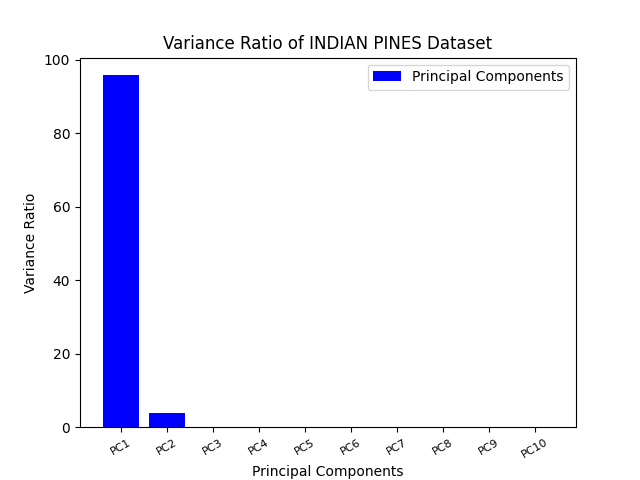
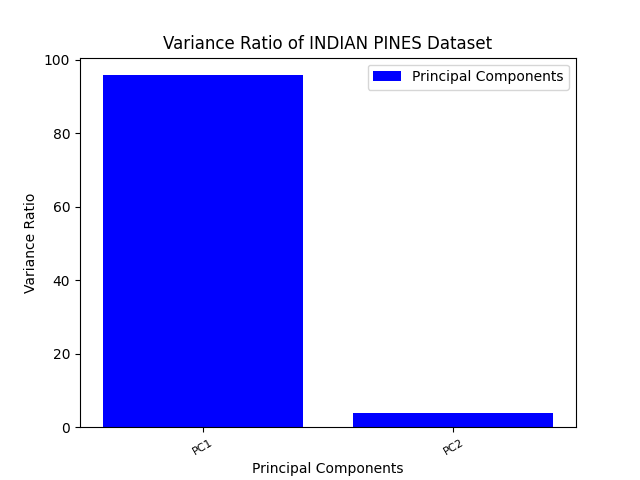
Checkpoint

diff --git a/hw3/2a.py b/hw3/2a.py
@@ -1,17 +1,19 @@
 #!/usr/bin/env python3
 
-import matplotlib.pyplot as plt
 import numpy as np
+import scipy.io
+import pandas as pd
 
-from sklearn import datasets
 from matplotlib import pyplot
-
+import matplotlib.pyplot as plt
 
 from sklearn.datasets import load_iris
-
+from sklearn import datasets
 from sklearn.model_selection import train_test_split
 from sklearn.model_selection import cross_val_score
 from sklearn.model_selection import learning_curve
+from sklearn.decomposition import PCA
+from sklearn.discriminant_analysis import LinearDiscriminantAnalysis
 from sklearn.model_selection import StratifiedKFold
 from sklearn.linear_model import LogisticRegression
 from sklearn.tree import DecisionTreeClassifier
@@ -25,7 +27,7 @@ from sklearn.ensemble import RandomForestClassifier
 from sklearn.ensemble import AdaBoostClassifier
 from sklearn.preprocessing import MinMaxScaler
 from sklearn.pipeline import Pipeline
-
+from sklearn.metrics import plot_confusion_matrix
 
 def plot_learning_curve(classifier, X, y, steps=10, train_sizes=np.linspace(0.1, 1.0, 10), label="", color="r", axes=None):
     estimator = Pipeline([("scaler", MinMaxScaler()), ("classifier", classifier)])
@@ -61,6 +63,18 @@ def plot_learning_curve(classifier, X, y, steps=10, train_sizes=np.linspace(0.1,
     print("")
     return plt
 
+def plot_per_class_accuracy(classifier, X, y, label, feature_selection = None):
+    X_train, X_test, y_train, y_test = train_test_split(X, y, test_size=0.9, random_state=101)
+    pipeline = Pipeline([("scalar", MinMaxScaler()), ("classifier", classifier)])
+    pipeline.fit(X_train, y_train)
+    disp = plot_confusion_matrix(pipeline, X_test, y_test, cmap=plt.cm.Blues)
+    plt.title(label)
+    plt.savefig(f'cm-{label}.png')
+    true_positive = disp.confusion_matrix[1][1]
+    false_negative = disp.confusion_matrix[1][0]
+    print(label + " - Sensitivity: ", true_positive/(true_positive+false_negative))
+    print()
+
 def main():
     # Load Iris Data
     iris = load_iris()
@@ -68,6 +82,31 @@ def main():
     X = iris.data
     y = iris.target
     target_names = iris.target_names
+
+    iris_pca = PCA(n_components=2)
+    iris_PCs = iris_pca.fit_transform(X.T)
+
+    ## Indian Pines
+    df = scipy.io.loadmat(r'indianR.mat')
+    print(df.keys())
+    print(df['num_bands'])
+
+    x = np.array(df['X']) # data
+    gth = np.array(df['gth']) # labels
+    num_rows = np.array(df['num_rows'])
+    num_cols = np.array(df['num_cols'])
+    num_bands = np.array(df['num_bands'])
+    bands,samples = x.shape
+
+    ### load ground truth data (class labels to the data)
+    gth_mat = scipy.io.loadmat(r'indian_gth.mat')
+    gth_mat = {i:j for i, j in gth_mat.items() if i[0] != '_'}
+    gt = pd.DataFrame({i: pd.Series(j[0]) for i, j in gth_mat.items()})
+
+    ### Preprocessing of indian pines data set
+    scaler_model = MinMaxScaler()
+    scaler_model.fit(x.astype(float))
+    x = scaler_model.transform(x)
 
     # Splitting the Dataset
     # In the real world, we test only a small sample
@@ -105,24 +144,26 @@ def main():
     pyplot.title('Algorithm Comparison')
     pyplot.savefig('algo-comparison.png')
 
+    plt.figure()
     _, axes = plt.subplots(1, 2, figsize=(12, 5))
 
     num_steps = 10
     classifier_labels = {
+        "SVM - RBF": (SVC(kernel="rbf", random_state=1), "orange"),
+        "Guassian Naive Bayes": (GaussianNB(), "lime"),
+        "MLP": (MLPClassifier(hidden_layer_sizes=(64, 32),max_iter=1000, random_state=42), "blue"),
         #"Logistic Regression": (LogisticRegression(max_iter=1000, random_state=1), "red"),
         #"Random Forest": (RandomForestClassifier(random_state=1), "green"),
         #"SVM - Linear": (SVC(kernel="linear", random_state=1), "blue"),
-        "SVM - RBF": (SVC(kernel="rbf", random_state=1), "orange"),
         #"SVM - Poly": (SVC(kernel="poly", random_state=1), "orange"),
         #"kNN": (KNeighborsClassifier(n_neighbors=5), "purple"),
-        "Guassian Naive Bayes": (GaussianNB(), "lime"),
-        "MLP": (MLPClassifier(hidden_layer_sizes=(64, 32),max_iter=1000, random_state=42), "blue"),
     }
 
     for label in classifier_labels:
         classifier = classifier_labels[label][0]
         color = classifier_labels[label][1]
         plot_learning_curve(classifier, X, y, steps=num_steps, label=label, color=color, axes=axes)
+
 
     axes[0].set_xlabel('% of Training Exmples')
     axes[0].set_ylabel('Overall Classification Accuracy')
@@ -135,6 +176,13 @@ def main():
     axes[1].legend()
 
     plt.savefig("comparison.png")
+
+    plt.figure() # clear buffer
+
+    for label in classifier_labels:
+        classifier = classifier_labels[label][0]
+        color = classifier_labels[label][1]
+        plot_per_class_accuracy(classifier, X, y, label)
 
 if __name__ == '__main__':
     main()

diff --git a/hw3/1a.py b/hw3/1a.py
@@ -122,11 +122,11 @@ x1 = x.transpose()
 indianpines_reduced_pca = np.matmul(x1, indianpines_PCs)
 
 # Model x as a dataframe
-x_pca_df = pd.DataFrame(data = indianpines_reduced_pca,
+pines_pca_df = pd.DataFrame(data = indianpines_reduced_pca,
                         columns = ['PC-1', 'PC-2', 'PC-3', 'PC-4', 'PC-5', 'PC-6', 'PC-7', 'PC-8', 'PC-9', 'PC-10'])
 
 # Adding labels
-X_pca_df = pd.concat([x_pca_df, gt], axis = 1)
+pines_pca_df = pd.concat([pines_pca_df, gt], axis = 1)
 
 fig = plt.figure(figsize = (10,10))
 ax = fig.add_subplot(1,1,1)
@@ -137,30 +137,44 @@ class_num = [1,2,3,4,5,6,7,8,9,10,11,12,13,14,15,16]
 colors = ['r','g','b','y','m','c','k','r','g','b','y','m','c','k','b','r']
 markerm = ['o','o','o','o','o','o','o','+','+','+','+','+','+','+','*','*']
 for target, color, m in zip(class_num,colors,markerm):
-    indicesToKeep = X_pca_df['gth'] == target
-    ax.scatter(X_pca_df.loc[indicesToKeep, 'PC-1'],
-                X_pca_df.loc[indicesToKeep, 'PC-2'],
+    indicesToKeep = pines_pca_df['gth'] == target
+    ax.scatter(pines_pca_df.loc[indicesToKeep, 'PC-1'],
+                pines_pca_df.loc[indicesToKeep, 'PC-2'],
                 c = color, marker = m, s = 9)
 ax.legend(class_num)
 ax.grid()
 plt.savefig('pca-indianpines.png')
 
-exit()
-
 # Part iii
 
-# There are 3 classes, LDA is N-1 for separation of each class
-lda = LinearDiscriminantAnalysis(n_components=2)
-X_r2 = lda.fit(X, y).transform(X)
+## Iris LDA
 
-# Visualization time
+### There are 3 classes, LDA is N-1 for separation of each class
+lda = LinearDiscriminantAnalysis(n_components=2)
+iris_reduced_lda = lda.fit(X, y).transform(X)
+
+### Visualization time
 plt.figure()
 colors = ['navy', 'turquoise', 'darkorange']
 lw = 2
 
 for color, i, target_name in zip(colors, [0,1,2], target_names):
-    plt.scatter(X_r2[y == i, 0], X_r2[y == i, 1], color=color, alpha=0.8, lw=lw, label=target_name)
+    plt.scatter(iris_reduced_lda[y == i, 0], iris_reduced_lda[y == i, 1], color=color, alpha=0.8, lw=lw, label=target_name)
 plt.legend(loc='best', shadow=False, scatterpoints=1)
-plt.title('LDA of IRIS dataset')
+plt.title('LDA of Iris dataset')
 
-plt.savefig('iris-lda.png')
+plt.savefig('lda-iris.png')
+
+## Indian Pines LDA
+lda = LinearDiscriminantAnalysis(n_components=15) # N-1 separations for N classes
+indianpines_reduced_lda = lda.fit(x,gth).transform(x)
+
+colors = ['blue', 'green', 'red', 'cyan', 'magenta', 'yellow', 'black', 'white',
+          'gray', 'orange', 'purple', 'brown', 'pink', 'teal', 'turquoise', 'darkorange']
+lw = 15
+
+for color, i, target_name in zip(colors, [0,1,2,3,4,5,6,7,8,9,10,11,12,13,14,15], gt):
+    plt.scatter(indianpines_reduced_lda[y == i, 0], indianpines_reduced_lda[y == i, 1], color=color, alpha=0.8, lw=lw, label=target_name)
+plt.legend(loc='best', shadow=False, scatterpoints=1)
+plt.title('LDA of Iris dataset')
+plt.savefig('lda-pines.png')

diff --git a/pca/pca.py b/pca/pca.py
@@ -51,7 +51,7 @@ def main():
     x = scaler_model.transform(x)
 
     # Finding the principle components
-    pca = PCA(n_components=10)
+    pca = PCA(n_components=2)
     principalComponents = pca.fit_transform(x)
 
     # Display contribution of each pc's
@@ -67,10 +67,10 @@ def main():
 
     # Select the number of components to retain
     # -----------------------------------------
-    pca = PCA(n_components=10)
+    pca = PCA(n_components=2)
     principalComponents = pca.fit_transform(x)
     principalDf = pd.DataFrame(data = principalComponents,
-                               columns = ['PC-1', 'PC-2', 'PC-3', 'PC-4', 'PC-5', 'PC-6', 'PC-7', 'PC-8', 'PC-9', 'PC-10'])
+                               columns = ['PC-1', 'PC-2'])
 
     # Adding labels
     finalDf = pd.concat([principalDf, gt], axis = 1)
@@ -83,7 +83,7 @@ def main():
 
     # Model x as a dataframe
     x_pca_df = pd.DataFrame(data = X_pca,
-                            columns = ['PC-1', 'PC-2', 'PC-3', 'PC-4', 'PC-5', 'PC-6', 'PC-7', 'PC-8', 'PC-9', 'PC-10'])
+                            columns = ['PC-1', 'PC-2'])
 
     # Adding labels
     X_pca_df = pd.concat([x_pca_df, gt], axis = 1)
@@ -93,13 +93,13 @@ def main():
 
     # ADDING SOME VISUALIZATION
     # Bar graph for explained variance ratio
-    plt.bar([1,2,3,4,5,6,7,8,9,10], list(ev*100), label='Principal Components', color='b')
+    plt.bar([1,2], list(ev*100), label='Principal Components', color='b')
     plt.legend()
     plt.xlabel('Principal Components')
     pc=[]
-    for i in range(10):
+    for i in range(2):
         pc.append('PC'+str(i+1))
-    plt.xticks([1,2,3,4,5,6,7,8,9,10],pc,fontsize=8,rotation=30)
+    plt.xticks([1,2],pc,fontsize=8,rotation=30)
     plt.ylabel('Variance Ratio')
     plt.title('Variance Ratio of INDIAN PINES Dataset')
     plt.savefig('indianpines-variance-ratio.png')
